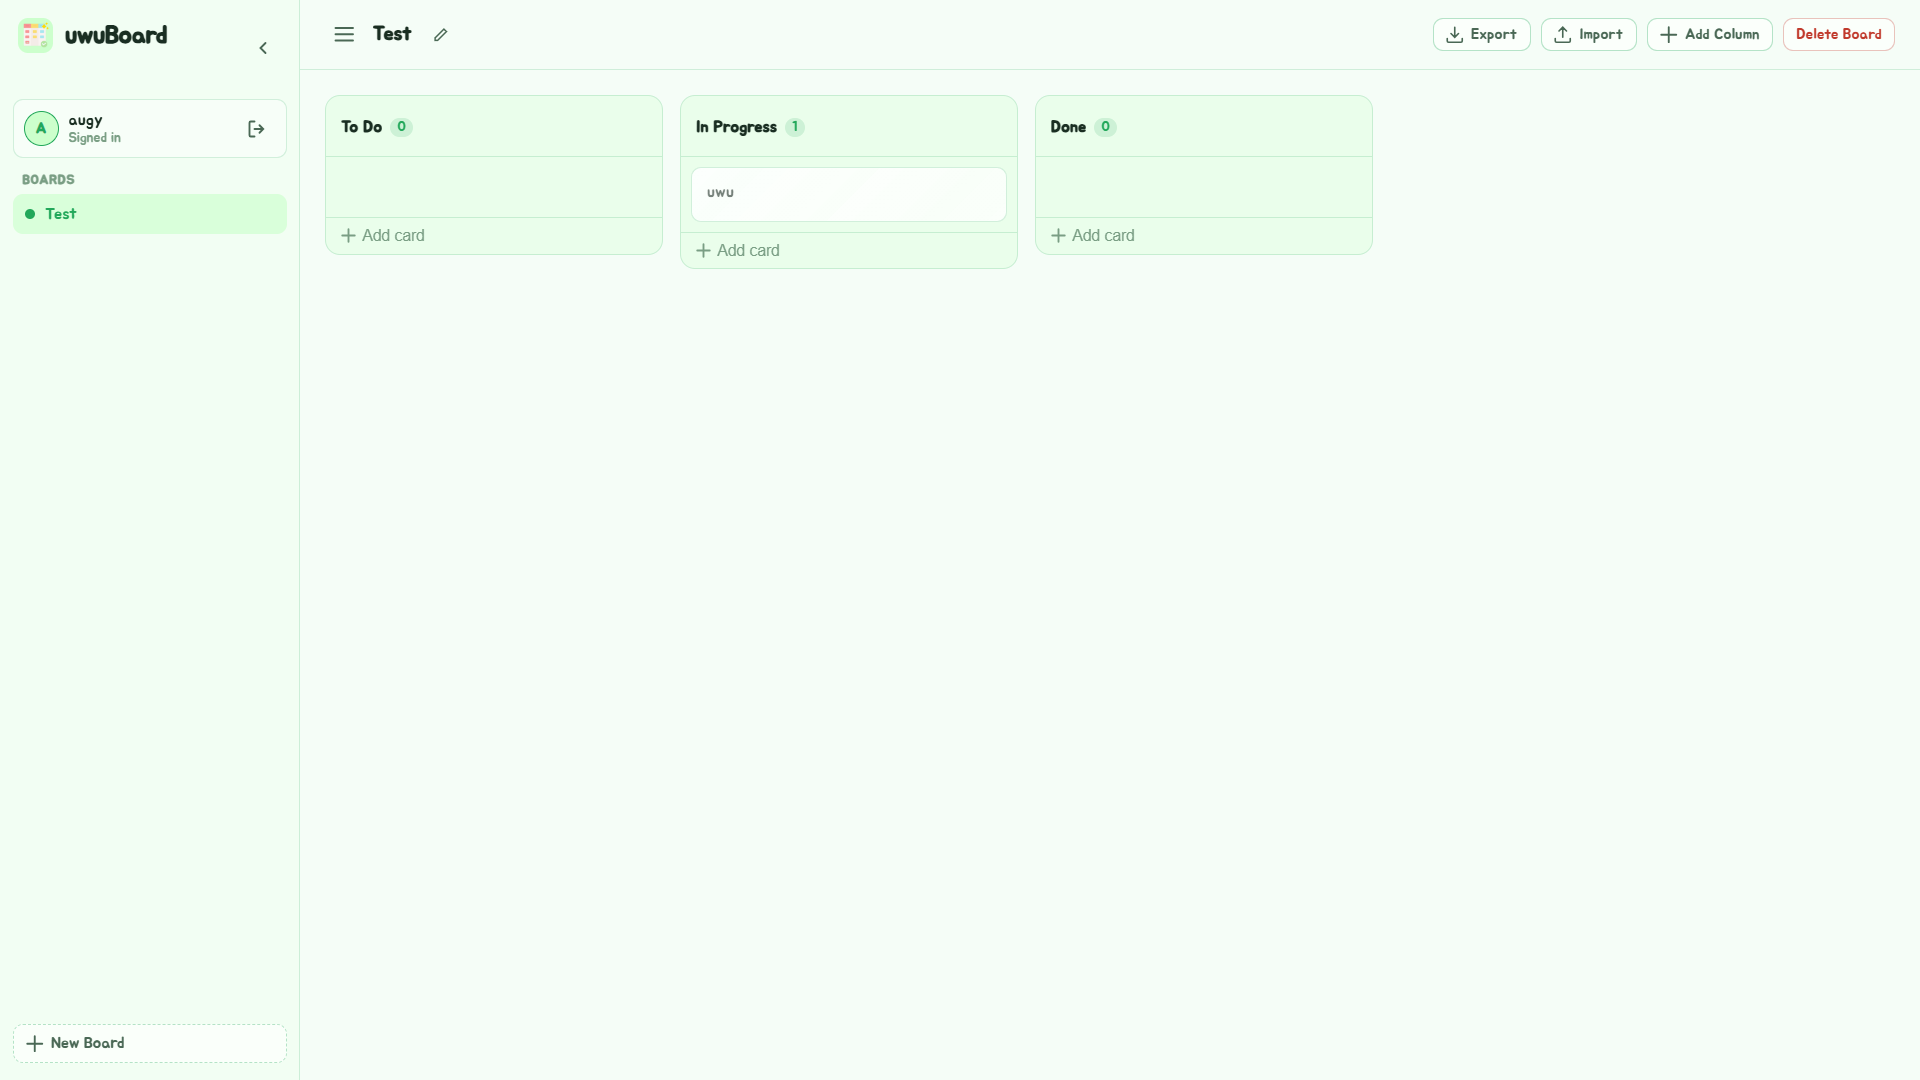
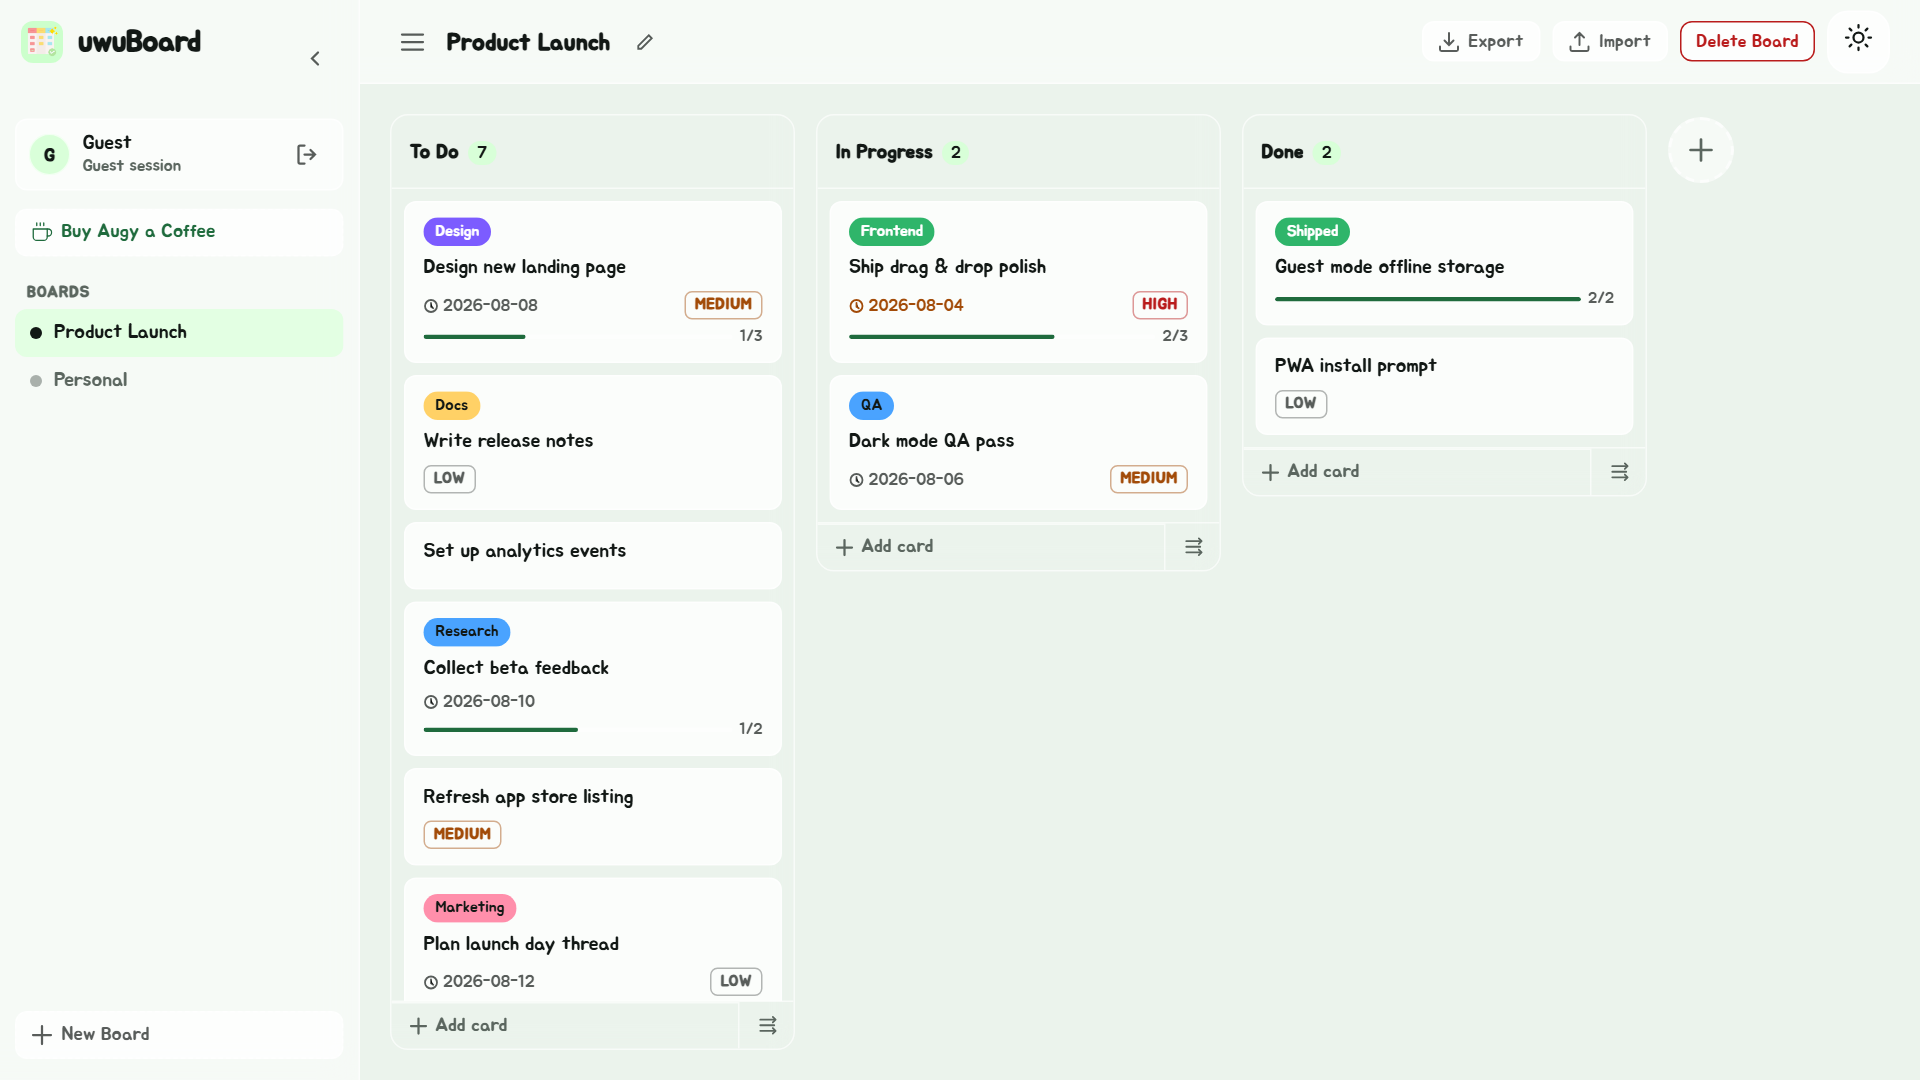
Update screenshots for improved visual representation

diff --git a/sw.js b/sw.js
@@ -1,4 +1,4 @@
-const CACHE = "uwuboard-v2";
+const CACHE = "uwuboard-v3";
 
 const ASSETS = [
   "/",
